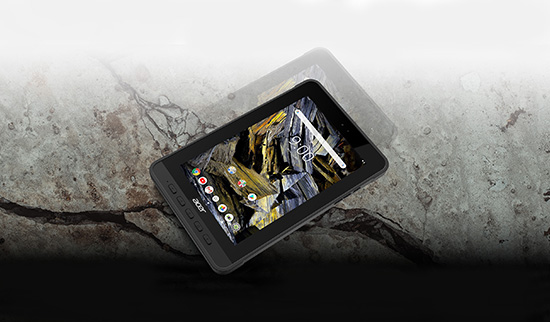
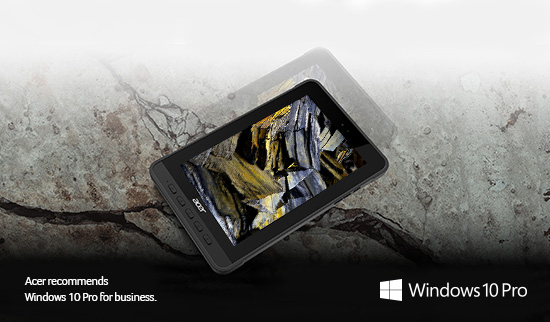
Major

Changed region(s): [[0.34, 0.3106, 0.6491, 0.7764], [0.68, 0.8696, 0.9582, 0.9317], [0.0309, 0.8385, 0.2782, 0.9317]]

diff --git a/acer/enduro/css/app.css b/acer/enduro/css/app.css
@@ -149,13 +149,32 @@ padding: 24px;
 .conceptd .col-full.text{
   width: calc(100% - 48px);
   margin: 0 auto;
-  padding: 48px 24px 0;
+  padding: 24px 24px 0;
 }
 
 .conceptd .col-full.image{
   width: 100%;
   margin: 0 auto;
   padding: 24px 0 48px;
+}
+
+.conceptd .col-full.logo {
+  width: 100%;
+  margin: 0 auto;
+  padding: 24px 0 0;
+}
+
+.conceptd .col-full.logo .media {
+  width: auto;
+  margin: 0 auto;
+  padding: 0;
+}
+
+.conceptd .col-full.logo .media img {
+  width: auto;
+  height: 25px;
+  margin: 0 auto;
+  padding: 24px 0 0;
 }
 
 .conceptd .col-1-2.text {
@@ -239,6 +258,25 @@ padding: 24px;
   padding: 24px 0 48px;
 }
 
+.conceptd .col-full.logo {
+  width: 100%;
+  margin: 0 auto;
+  padding: 24px 0 0;
+}
+
+.conceptd .col-full.logo .media {
+  width: auto;
+  margin: 0 auto;
+  padding: 0;
+}
+
+.conceptd .col-full.logo .media img {
+  width: auto;
+  height: 35px;
+  margin: 0 auto;
+  padding: 24px 0 0;
+}
+
 .conceptd .col-1-2.text {
   display: flex;
   flex-direction: column;
@@ -298,6 +336,25 @@ padding: 48px;
   width: 100%;
   margin: 0 auto;
   padding: 24px 0 48px;
+}
+
+.conceptd .col-full.logo {
+  width: 100%;
+  margin: 0 auto;
+  padding: 24px 0 0;
+}
+
+.conceptd .col-full.logo .media {
+  width: auto;
+  margin: 0 auto;
+  padding: 0;
+}
+
+.conceptd .col-full.logo .media img {
+  width: auto;
+  height: 50px;
+  margin: 0 auto;
+  padding: 24px 0 0;
 }
 
 .conceptd .col-full h2,

diff --git a/acer/enduro/enduro.html b/acer/enduro/enduro.html
@@ -10,6 +10,13 @@
   <div class="conceptd">
     <div class="container">
       <div class="row full-width">
+        <div class="col-full logo">
+          <div class="media">
+            <img src="img/Acer-businessxwindows_logo.png" alt="">
+          </div>
+        </div>
+      </div>
+      <div class="row full-width">
         <div class="col-full text">
           <h2 class="text-primary-orange">Let them handle the tough stuff.</h2>
           <p>N3 and T1 are two key players of the Acer Enduro rugged notebooks and tablets range, designed to provide durability, portability, and performance needed by professionals working in the field. The perfect companions able to physically survive chaotic work environments!</p>
